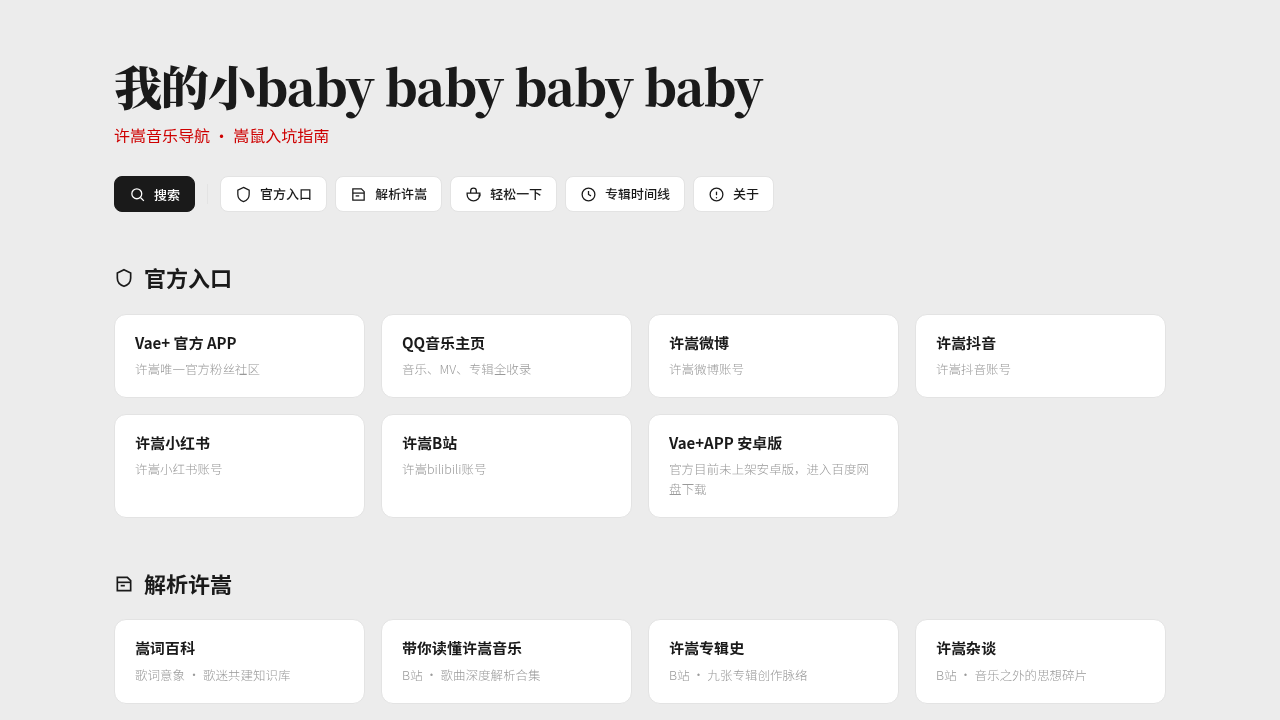
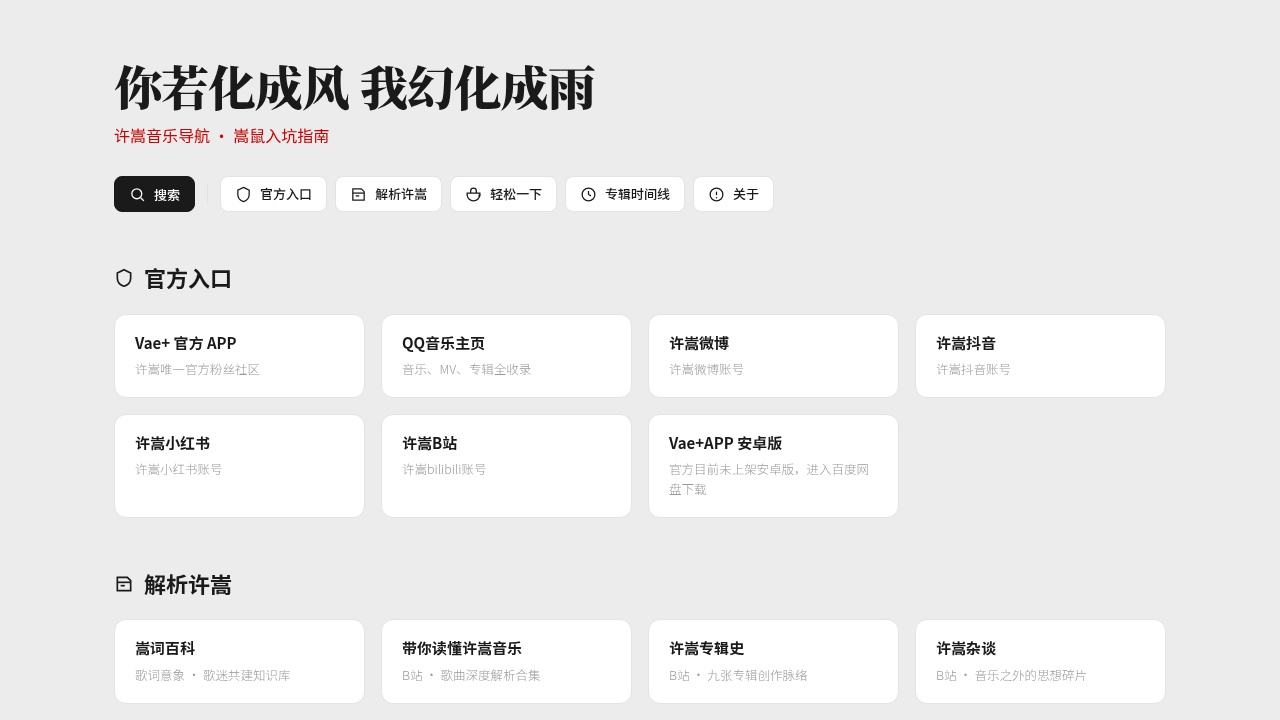
Add files via upload

Changed region(s): [[0.0938, 0.0917, 0.5938, 0.1528]]

diff --git a/index.html b/index.html
@@ -352,7 +352,7 @@
 
   <!-- ===== 关于 ===== -->
   <div class="about-row" id="about">
-    <p>一座持续生长的导航站，由 <b><a href="https://space.bilibili.com/12550061" target="_blank" rel="noopener">@我贼6贼6贼6</a></b> 维护 · 最后更新：2026-09-05 · <span id="busuanzi_container_site_pv">总访问量 <span id="busuanzi_value_site_pv"></span> 次</span> · <span id="busuanzi_container_site_uv">访客数 <span id="busuanzi_value_site_uv"></span> 人次</span></p>
+    <p>一座持续生长的导航站，由 <b><a href="https://space.bilibili.com/12550061" target="_blank" rel="noopener">@我贼6贼6贼6</a></b> 维护 · 最后更新：2026-09-08 · <span id="busuanzi_container_site_pv">总访问量 <span id="busuanzi_value_site_pv"></span> 次</span> · <span id="busuanzi_container_site_uv">访客数 <span id="busuanzi_value_site_uv"></span> 人次</span></p>
     <p>山水之间 · 许嵩导航站</p>
   </div>
 
@@ -392,12 +392,15 @@ const ANALYSIS_LINKS = [
   { name:"许嵩专辑史", desc:"B站 · 九张专辑创作脉络", url:"https://space.bilibili.com/284868528/lists/2018228?type=season" },
   { name:"许嵩杂谈", desc:"B站 · 音乐之外的思想碎片", url:"https://space.bilibili.com/284868528/lists/492382?type=season" },
   { name:"许嵩V+、博客、微博pdf", desc:"许嵩早期及近期文字资料", url:"https://pan.baidu.com/s/1ucA3d6jr6T8Bfk9uK7lcdQ?pwd=4qp4" },
+  { name:"许嵩都写过唱过哪些歌？", desc:"收录许嵩发布过的几乎所有歌曲", url:"https://laokuke.github.io/Vae-Song-Titles/" },
 ];
 
 /* 轻松一下 */
 const RELAX_LINKS = [
   { name:"新海棠诗社", desc:"与黛玉、杜甫等组诗社、写诗、玩诗", url:"https://poetryweaver.qiaoqiao.social/" },
   { name:"听歌记", desc:"古风AI对话，与嵩鼠向导聊歌解词", url:"https://4kjfycdzbn4fx.aiforce.cloud/app/app_17dfs3xkm5w/" },
+  { name:"许嵩歌曲争霸赛", desc:"128首歌曲分组投票晋级（公众号：木尧工作室）", url:"https://cloud.muyaostudio.cn/pk" },
+  { name:"安泊猜想人格测试", desc:"九首歌，九个落点（公众号：木尧工作室）", url:"https://cloud.muyaostudio.cn/vaeti3" },
 ];
 
 const ALBUMS = [
